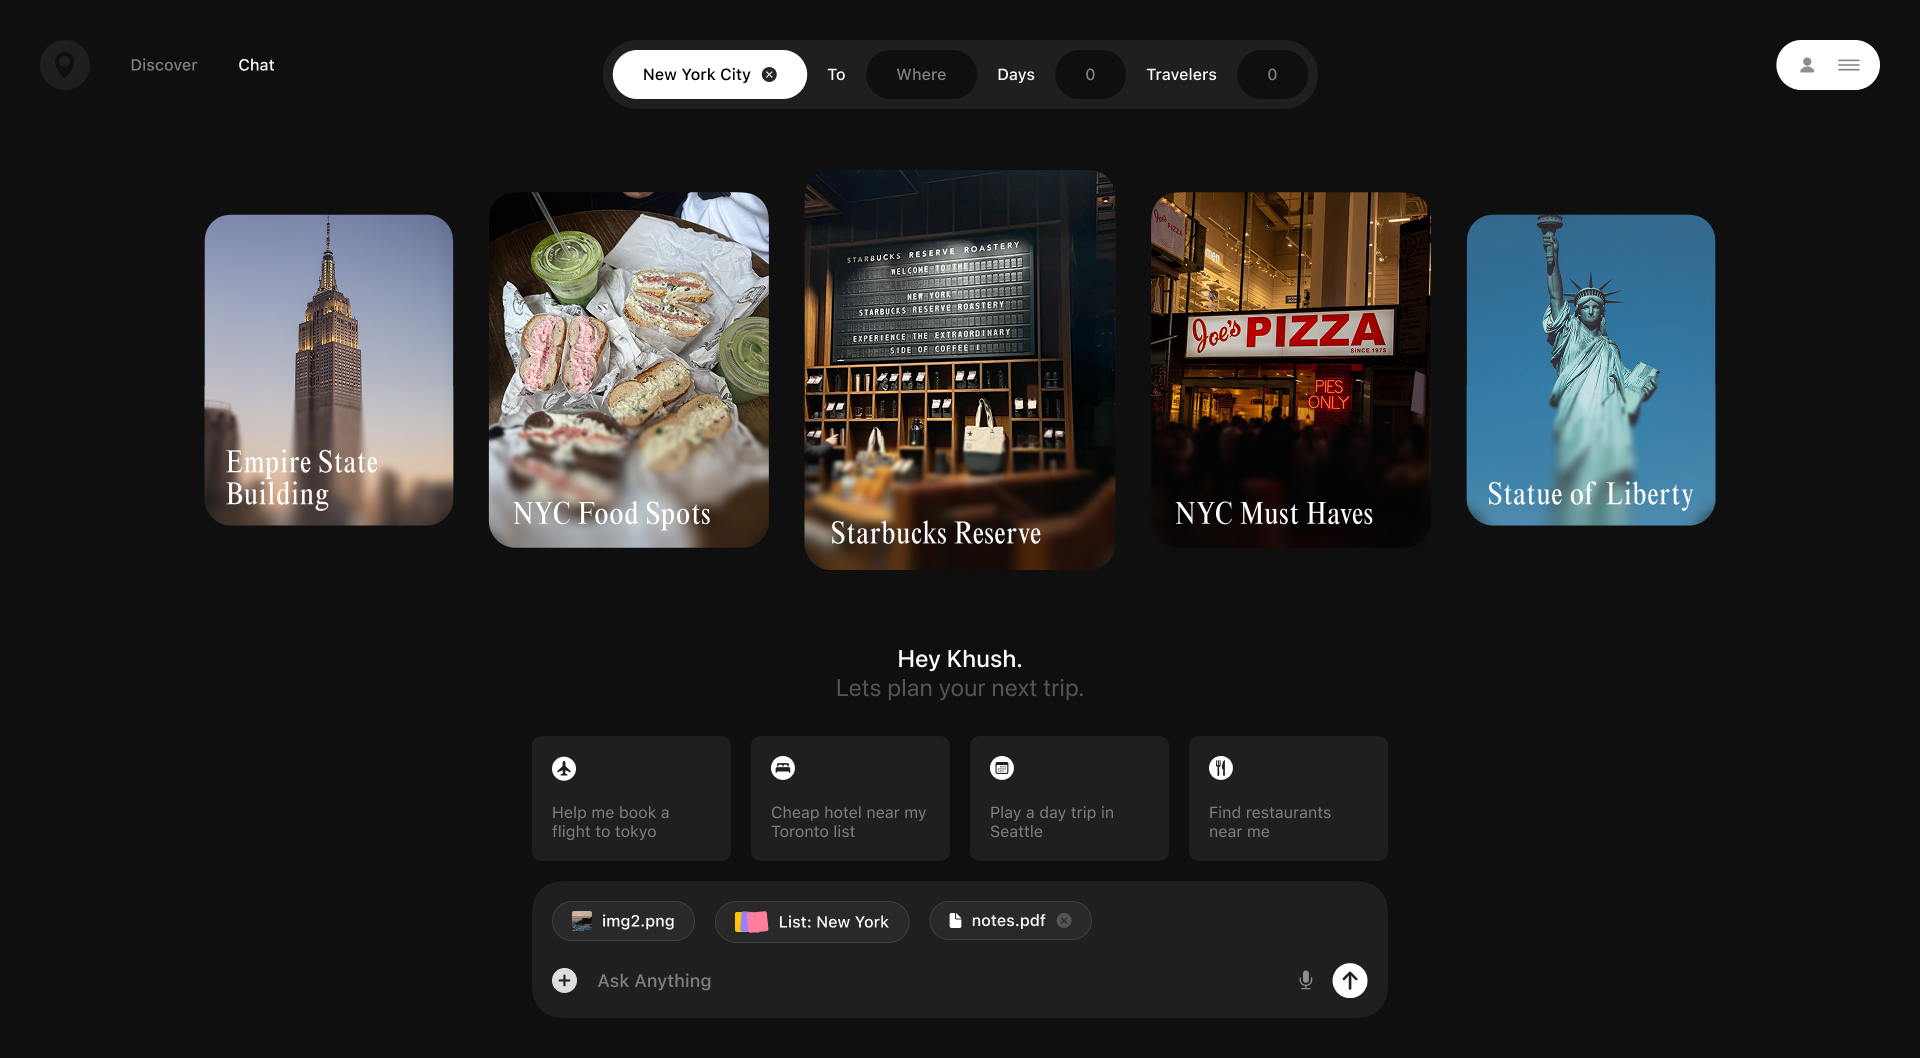
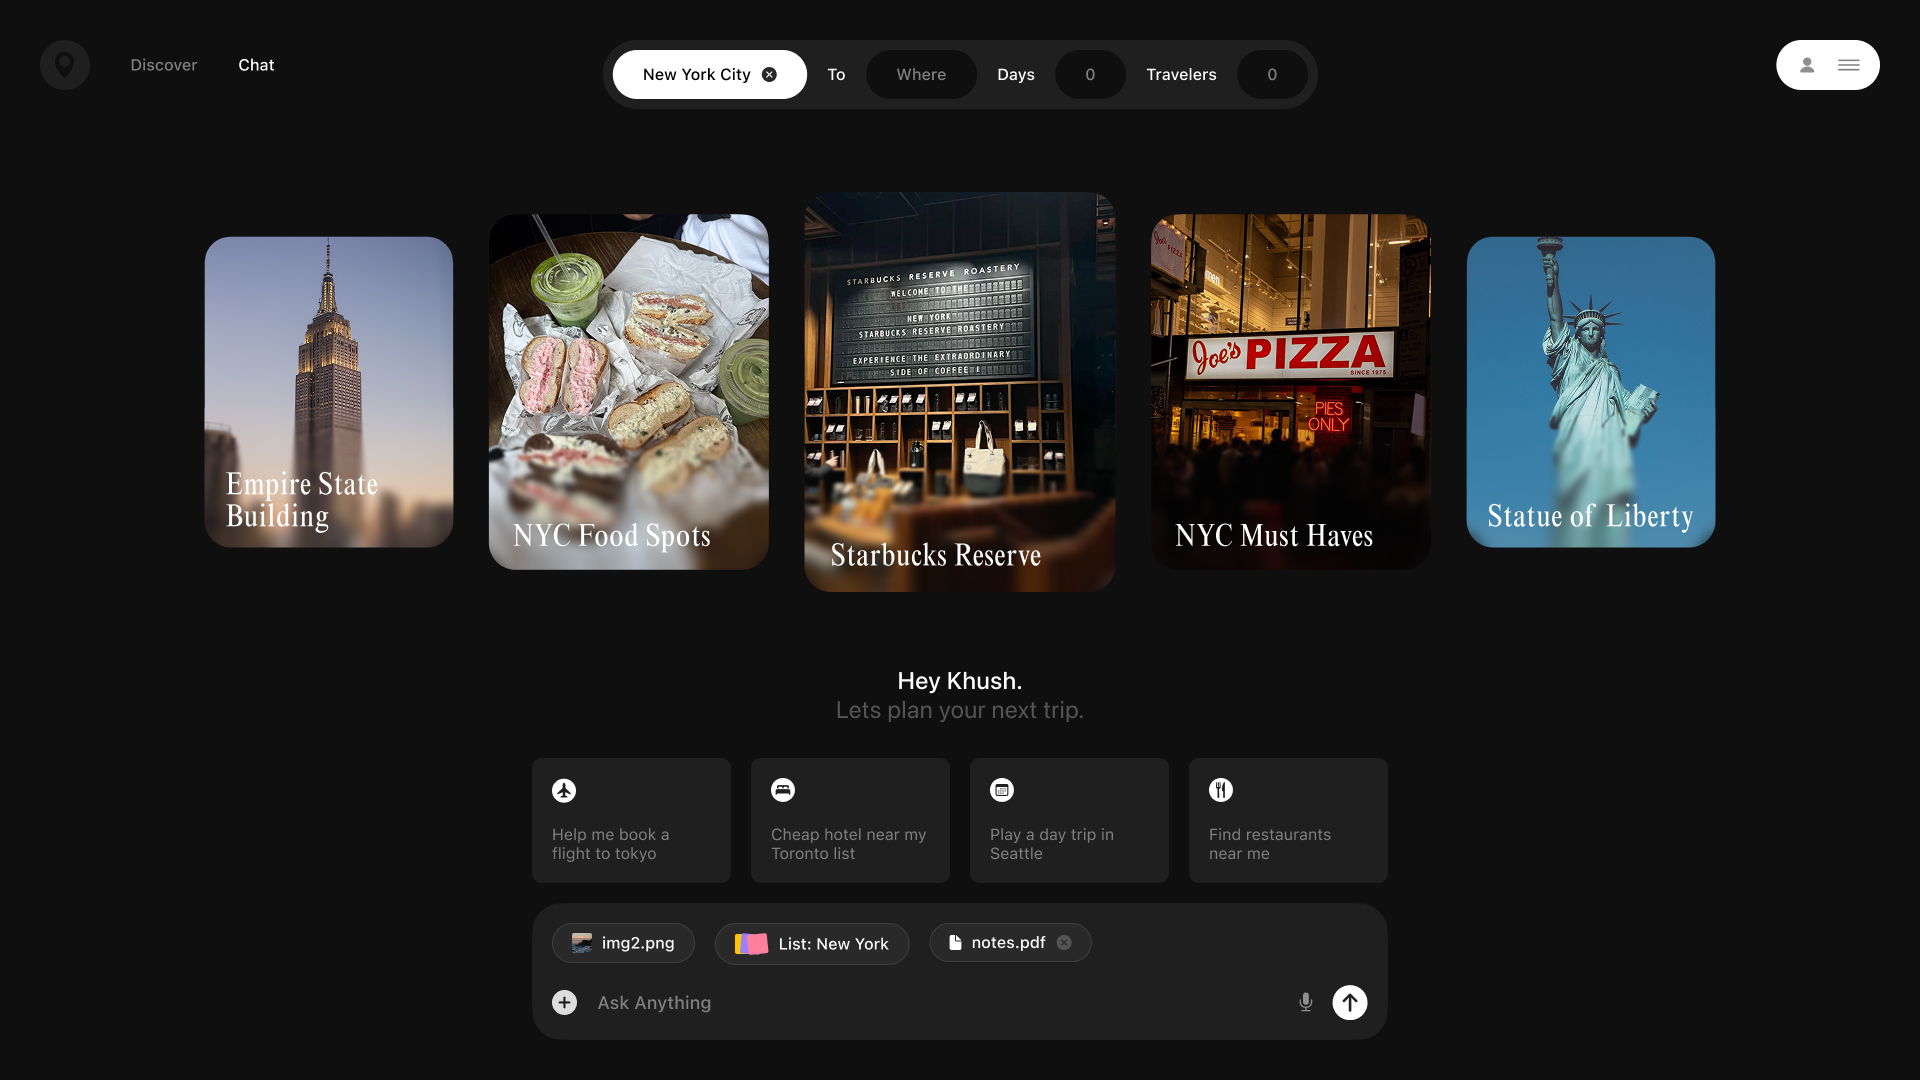
Case study gallery: stable slide frame, align Destination Context screen

diff --git a/app/case-studies/gallery.tsx b/app/case-studies/gallery.tsx
@@ -12,6 +12,17 @@ function optimizedImage(slide: Slide) {
     .props;
 }
 
+// Every slide shares one fixed frame. Screens are pinned to the top so the nav bar never shifts between slides.
+function frameStyle(slide: Slide) {
+  const fill = slide.canvas === false;
+  return {
+    inset: fill ? "0" : "8%",
+    width: fill ? "100%" : "84%",
+    height: fill ? "100%" : "84%",
+    objectPosition: slide.canvas === true ? "center" : "top",
+  };
+}
+
 export default function Gallery({ slides, label }: { slides: Slide[]; label: string }) {
   const [active, setActive] = useState(0);
   const [open, setOpen] = useState(false);
@@ -38,9 +49,7 @@ export default function Gallery({ slides, label }: { slides: Slide[]; label: str
         image.srcset = optimized.srcSet || "";
         image.src = optimized.src;
         image.alt = slides[next].label;
-        image.style.inset = slides[next].canvas === false ? "0" : "8%";
-        image.style.width = slides[next].canvas === false ? "100%" : "84%";
-        image.style.height = slides[next].canvas === false ? "100%" : "84%";
+        Object.assign(image.style, frameStyle(slides[next]));
         await image.decode();
         image.style.zIndex = "2";
         image.style.willChange = "opacity";
@@ -127,9 +136,7 @@ export default function Gallery({ slides, label }: { slides: Slide[]; label: str
                   className="absolute block object-contain"
                   style={{
                     zIndex: layer === 0 ? 1 : 0,
-                    inset: slides[0].canvas === false ? "0" : "8%",
-                    width: slides[0].canvas === false ? "100%" : "84%",
-                    height: slides[0].canvas === false ? "100%" : "84%",
+                    ...frameStyle(slides[0]),
                   }}
                 />
               ))}
